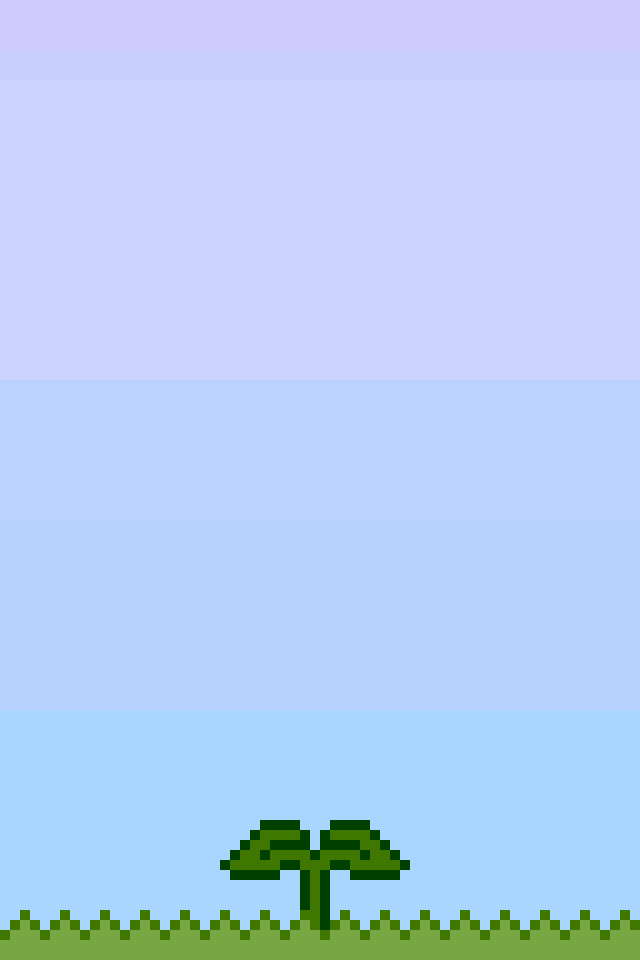
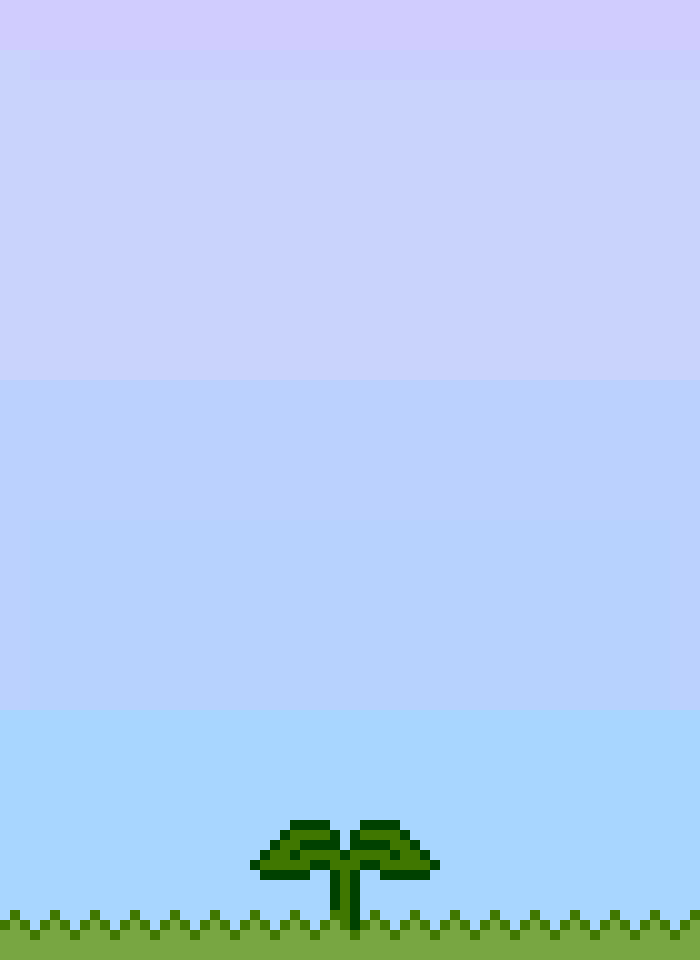
new

Changed region(s): [[0.0, 0.8438, 1.0, 1.0]]

diff --git a/gameplay.js b/gameplay.js
@@ -1,10 +1,20 @@
 
 var current_flower = 0;
 
-$('body').click(function(){
-	alert("click");
-	switch_img();
+$("document").ready(function(){
+	if (typeof window.orientation !== 'undefined')
+	{
+		$(".flower").attr("src", "images/flower0.png");
+	}
+	else
+	{
+		$(".flower").attr("src", "images/flower00.png");
+	}
+	current_flower = 0;
+	$("body").on("click", switch_img);
 });
+
+
 
 function switch_img()
 {
@@ -24,7 +34,6 @@ function switch_img()
 		current_flower = next_num;
 	}
 
-	alert(new_image);
-	$('.flower').attr('src', new_image);
+	$(".flower").attr("src", new_image);
 }
 

diff --git a/index.html b/index.html
@@ -10,9 +10,6 @@
   	<script src="gameplay.js"></script>
 </head>
 <body>
-	<div class="watering_can">
-		<img>
-	</div>
-  <img class="flower" src="images/flower0.png">
+  <img class="flower">
 </body>
 </html>
